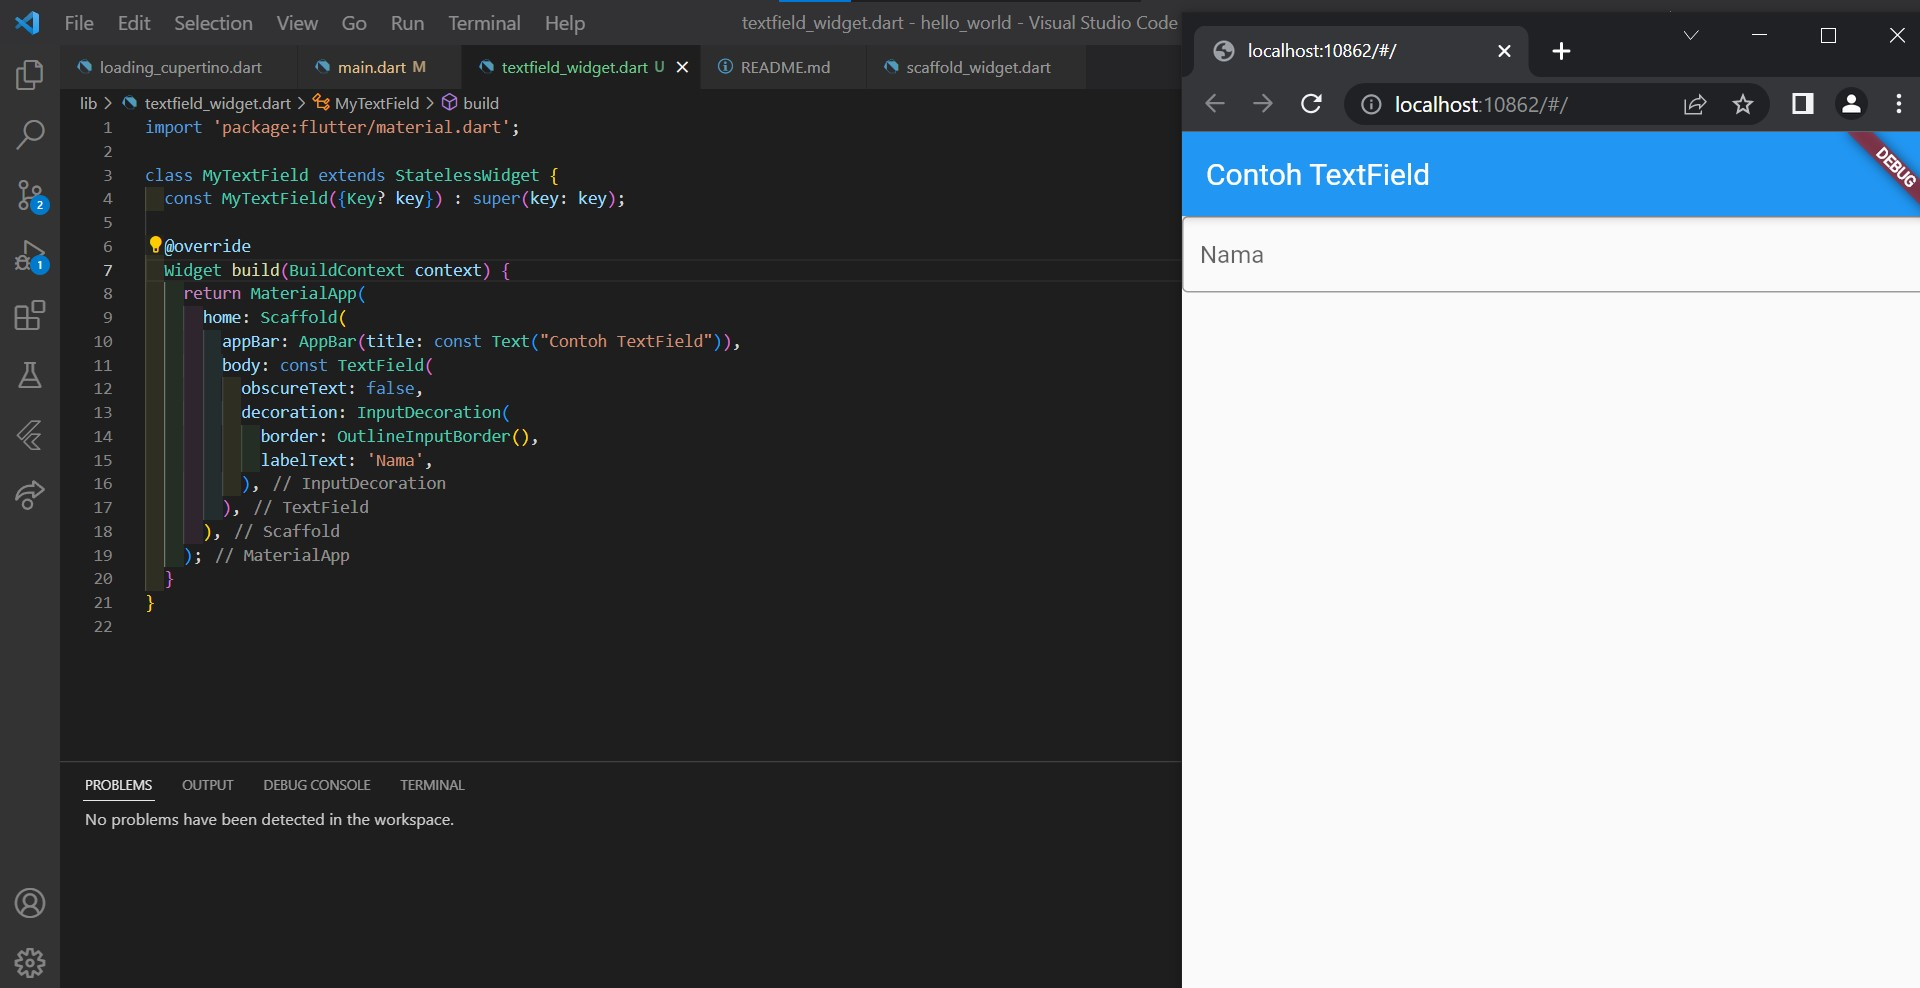
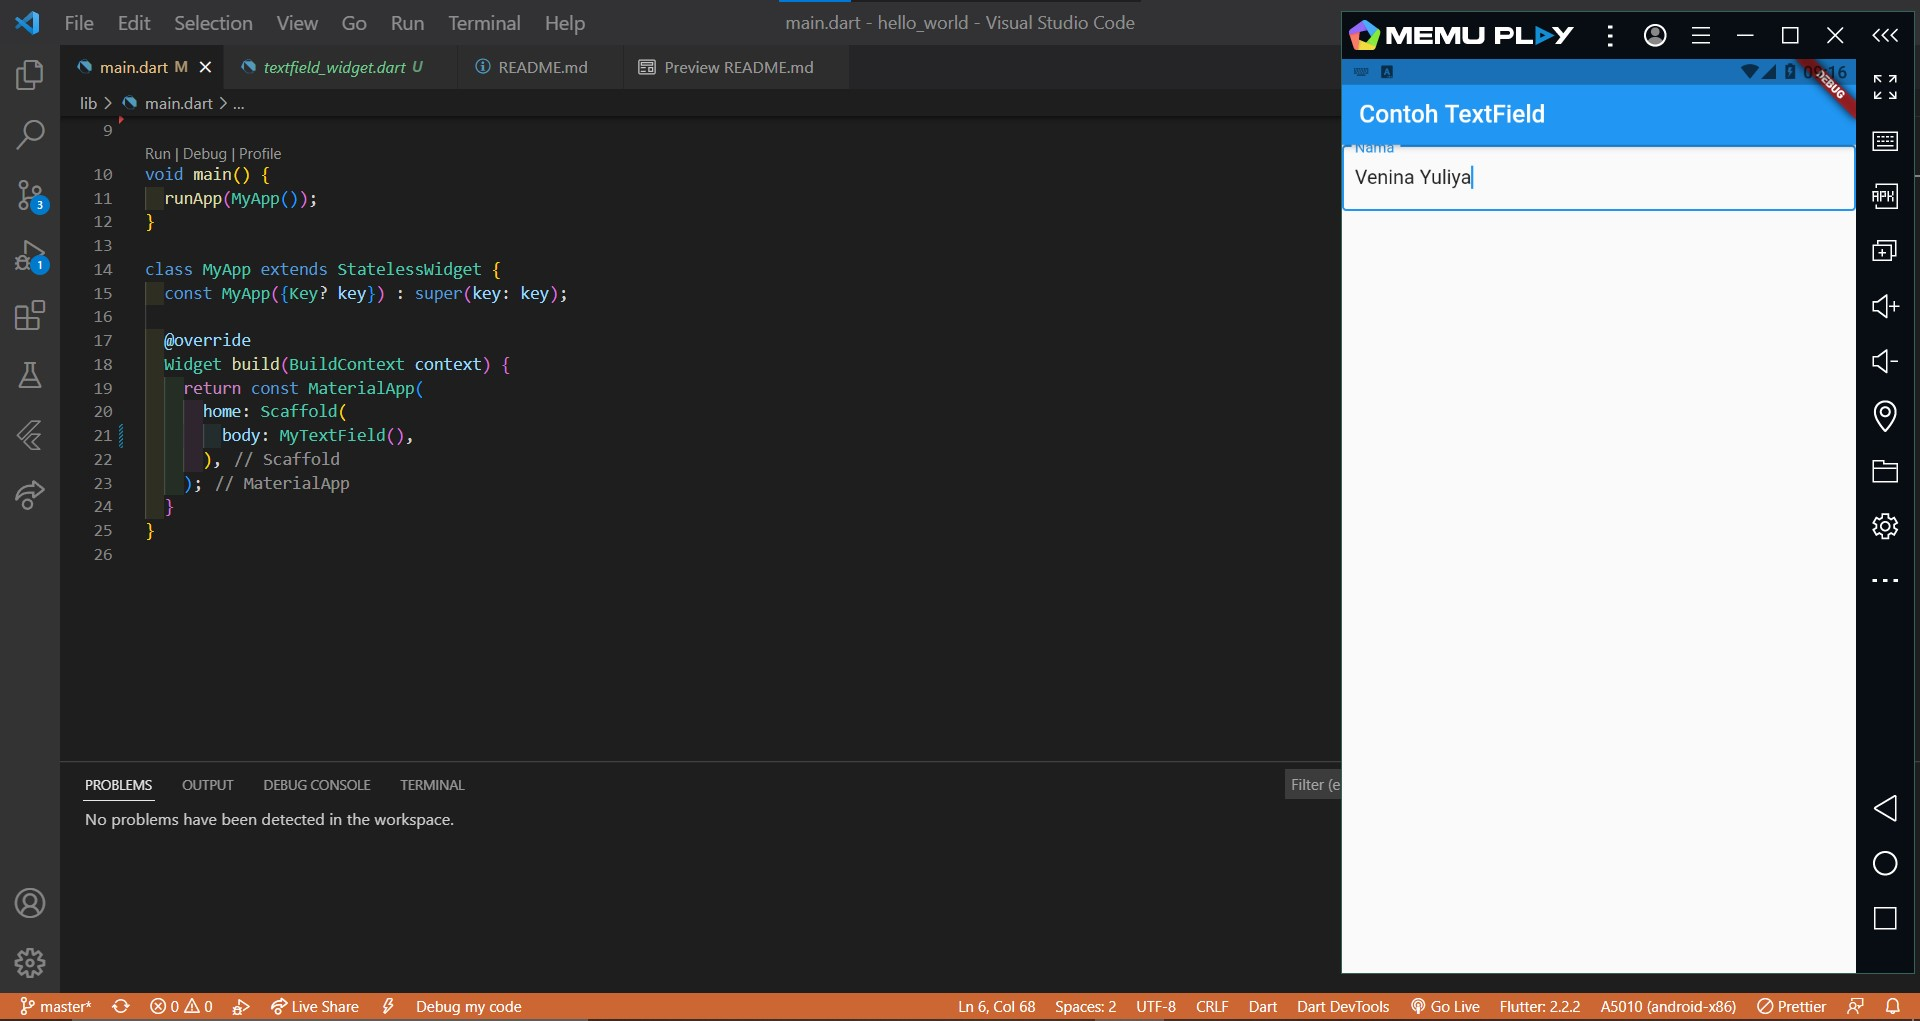
update textfield

diff --git a/lib/main.dart b/lib/main.dart
@@ -1,11 +1,11 @@
 import 'package:flutter/material.dart';
-import 'package:hello_world/basic_widgets/dialog_widget.dart';
+// import 'package:hello_world/basic_widgets/dialog_widget.dart';
+// import 'package:hello_world/basic_widgets/text_widget.dart';
+import 'package:hello_world/basic_widgets/textfield_widget.dart';
 // import 'package:hello_world/basic_widgets/datetime_widget.dart';
 // import 'package:hello_world/basic_widgets/scaffold_widget.dart';
-// import 'package:hello_world/textfield_widget.dart';
 // import 'basic_widgets/loading_cupertino.dart';
 // import 'basic_widgets/image_widget.dart';
-// import 'basic_widgets/text_widget.dart';
 
 void main() {
   runApp(MyApp());
@@ -18,7 +18,7 @@ class MyApp extends StatelessWidget {
   Widget build(BuildContext context) {
     return const MaterialApp(
       home: Scaffold(
-        body: MyLayout(),
+        body: MyTextField(),
       ),
     );
   }
